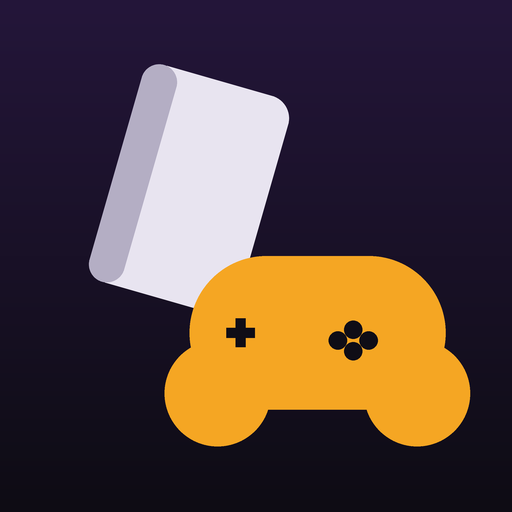
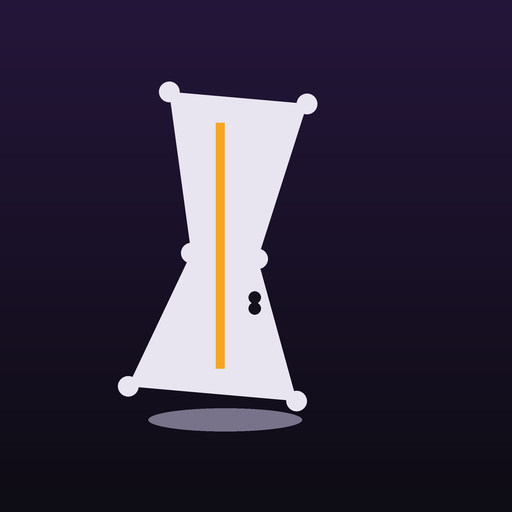
Troca ícone por silhueta de console em pé
Novo desenho original (console + base + selo de check) no lugar do
case+controle anterior, inspirado numa referência visual do usuário
sem reproduzir o arquivo de terceiros.

Changed region(s): [[0.1562, 0.125, 0.9375, 0.875]]

diff --git a/sw.js b/sw.js
@@ -1,4 +1,4 @@
-const CACHE = 'zerar-v9';
+const CACHE = 'zerar-v10';
 const COVERS = ['alan-wake-2.jpg','re7.jpg','lara-croft-go.jpg','tr1.png','re-rev.jpg',
   'tr2.png','re0.jpg','uncharted-2.jpg','tr3.png','re1.jpg','uncharted-3.jpg','tr4.png',
   'gta3.jpg','re5.jpg','tr5.png','gta-vc.jpg','re6.jpg','tr6.png','mafia-3.jpg',

diff --git a/generate-icons.py b/generate-icons.py
@@ -7,9 +7,6 @@ os.makedirs(OUT, exist_ok=True)
 def lerp(a, b, t):
     return tuple(int(a[i] + (b[i] - a[i]) * t) for i in range(3))
 
-def rrect(d, box, r, **kw):
-    d.rounded_rectangle(box, radius=r, **kw)
-
 def make(size, maskable=False):
     S = size * 4  # supersample
     img = Image.new("RGB", (S, S), (15, 13, 22))
@@ -27,50 +24,47 @@ def make(size, maskable=False):
         img = bg
         d = ImageDraw.Draw(img)
 
-    pad = 1.0 if maskable else 0.0  # extra inset for maskable safe zone
-    cx = S * 0.5
+    cx = S * 0.44
+    pad = 1.0 if maskable else 0.0
 
-    # game case (tilted rounded rectangle), tucked to upper-left
-    case_w, case_h = S * 0.30, S * 0.44
-    case_cx, case_cy = S * (0.40 - pad*0.03), S * (0.40 - pad*0.03)
-    case = Image.new("RGBA", (S, S), (0, 0, 0, 0))
-    cd = ImageDraw.Draw(case)
-    rrect(cd, [case_cx - case_w/2, case_cy - case_h/2, case_cx + case_w/2, case_cy + case_h/2],
-          r=S*0.045, fill=(232, 228, 240, 255))
-    # spine shadow stripe
-    rrect(cd, [case_cx - case_w/2, case_cy - case_h/2, case_cx - case_w/2 + S*0.07, case_cy + case_h/2],
-          r=S*0.045, fill=(180, 174, 196, 255))
-    case = case.rotate(-16, resample=Image.BICUBIC, center=(case_cx, case_cy))
-    img.paste(case, (0, 0), case)
+    # console silhouette: tall standing shape, flared top/bottom, pinched middle
+    y0, yM, y1 = S * (0.16 + pad*0.03), S * 0.50, S * (0.80 - pad*0.03)
+    wT, wM, wB = S * 0.135, S * 0.065, S * 0.165
+
+    layer = Image.new("RGBA", (S, S), (0, 0, 0, 0))
+    ld = ImageDraw.Draw(layer)
+    poly = [
+        (cx - wT, y0), (cx - wM, yM), (cx - wB, y1),
+        (cx + wB, y1), (cx + wM, yM), (cx + wT, y0),
+    ]
+    ld.polygon(poly, fill=(232, 228, 240, 255))
+    # soften corners with a blur-free rounding: draw small circles at the joints
+    for (px, py) in poly:
+        rr = S * 0.02
+        ld.ellipse([px - rr, py - rr, px + rr, py + rr], fill=(232, 228, 240, 255))
+
+    layer = layer.rotate(-5, resample=Image.BICUBIC, center=(cx, (y0 + y1) / 2))
+    img.paste(layer, (0, 0), layer)
     d = ImageDraw.Draw(img)
 
-    # controller body, lower-right, overlapping the case
-    ctl_w, ctl_h = S * 0.50, S * 0.30
-    ctl_cx, ctl_cy = S * (0.60 + pad*0.02), S * (0.63 + pad*0.02)
-    amber = (245, 166, 35)
-    rrect(d, [ctl_cx - ctl_w/2, ctl_cy - ctl_h/2, ctl_cx + ctl_w/2, ctl_cy + ctl_h/2],
-          r=ctl_h*0.5, fill=amber)
-    # grips
-    grip_r = ctl_h * 0.46
-    d.ellipse([ctl_cx - ctl_w/2 - grip_r*0.35, ctl_cy + ctl_h*0.05,
-               ctl_cx - ctl_w/2 + grip_r*1.15, ctl_cy + ctl_h*0.05 + grip_r*1.5], fill=amber)
-    d.ellipse([ctl_cx + ctl_w/2 - grip_r*1.15, ctl_cy + ctl_h*0.05,
-               ctl_cx + ctl_w/2 + grip_r*0.35, ctl_cy + ctl_h*0.05 + grip_r*1.5], fill=amber)
-    # face buttons
-    br = S * 0.018
-    for dx, dy in [(0.14, -0.02), (0.20, 0.05), (0.14, 0.12), (0.08, 0.05)]:
-        d.ellipse([ctl_cx + ctl_w*dx - br, ctl_cy + ctl_h*dy - br,
-                   ctl_cx + ctl_w*dx + br, ctl_cy + ctl_h*dy + br], fill=(15, 13, 22))
-    # d-pad
-    dpx, dpy = ctl_cx - ctl_w*0.30, ctl_cy
-    dl = S * 0.028
-    d.rectangle([dpx - dl, dpy - dl*0.35, dpx + dl, dpy + dl*0.35], fill=(15, 13, 22))
-    d.rectangle([dpx - dl*0.35, dpy - dl, dpx + dl*0.35, dpy + dl], fill=(15, 13, 22))
+    # oval base
+    base_w, base_h = S * 0.30, S * 0.045
+    base_cy = y1 + S * 0.05
+    d.ellipse([cx - base_w/2, base_cy - base_h/2, cx + base_w/2, base_cy + base_h/2],
+              fill=(120, 114, 138))
+
+    # amber accent stripe + two small dot details (evoke buttons/vents)
+    d.line([(cx - S*0.01, y0 + S*0.05), (cx - S*0.01, y1 - S*0.05)],
+           fill=(245, 166, 35), width=int(S * 0.018))
+    for dy in (0.30, 0.38):
+        rr = S * 0.012
+        px, py = cx + wB*0.35, y1 - (y1 - yM) * (1 - dy)
+        d.ellipse([px - rr, py - rr, px + rr, py + rr], fill=(20, 17, 28))
 
     # small green check badge, top-right
     if not maskable:
-        rad = S * 0.135
-        bx, by = S * 0.80, S * 0.22
+        rad = S * 0.115
+        bx, by = S * 0.83, S * 0.185
         d.ellipse([bx - rad, by - rad, bx + rad, by + rad], fill=(46, 213, 115))
         lw = int(S * 0.03)
         p1 = (bx - rad*0.45, by + rad*0.02)
